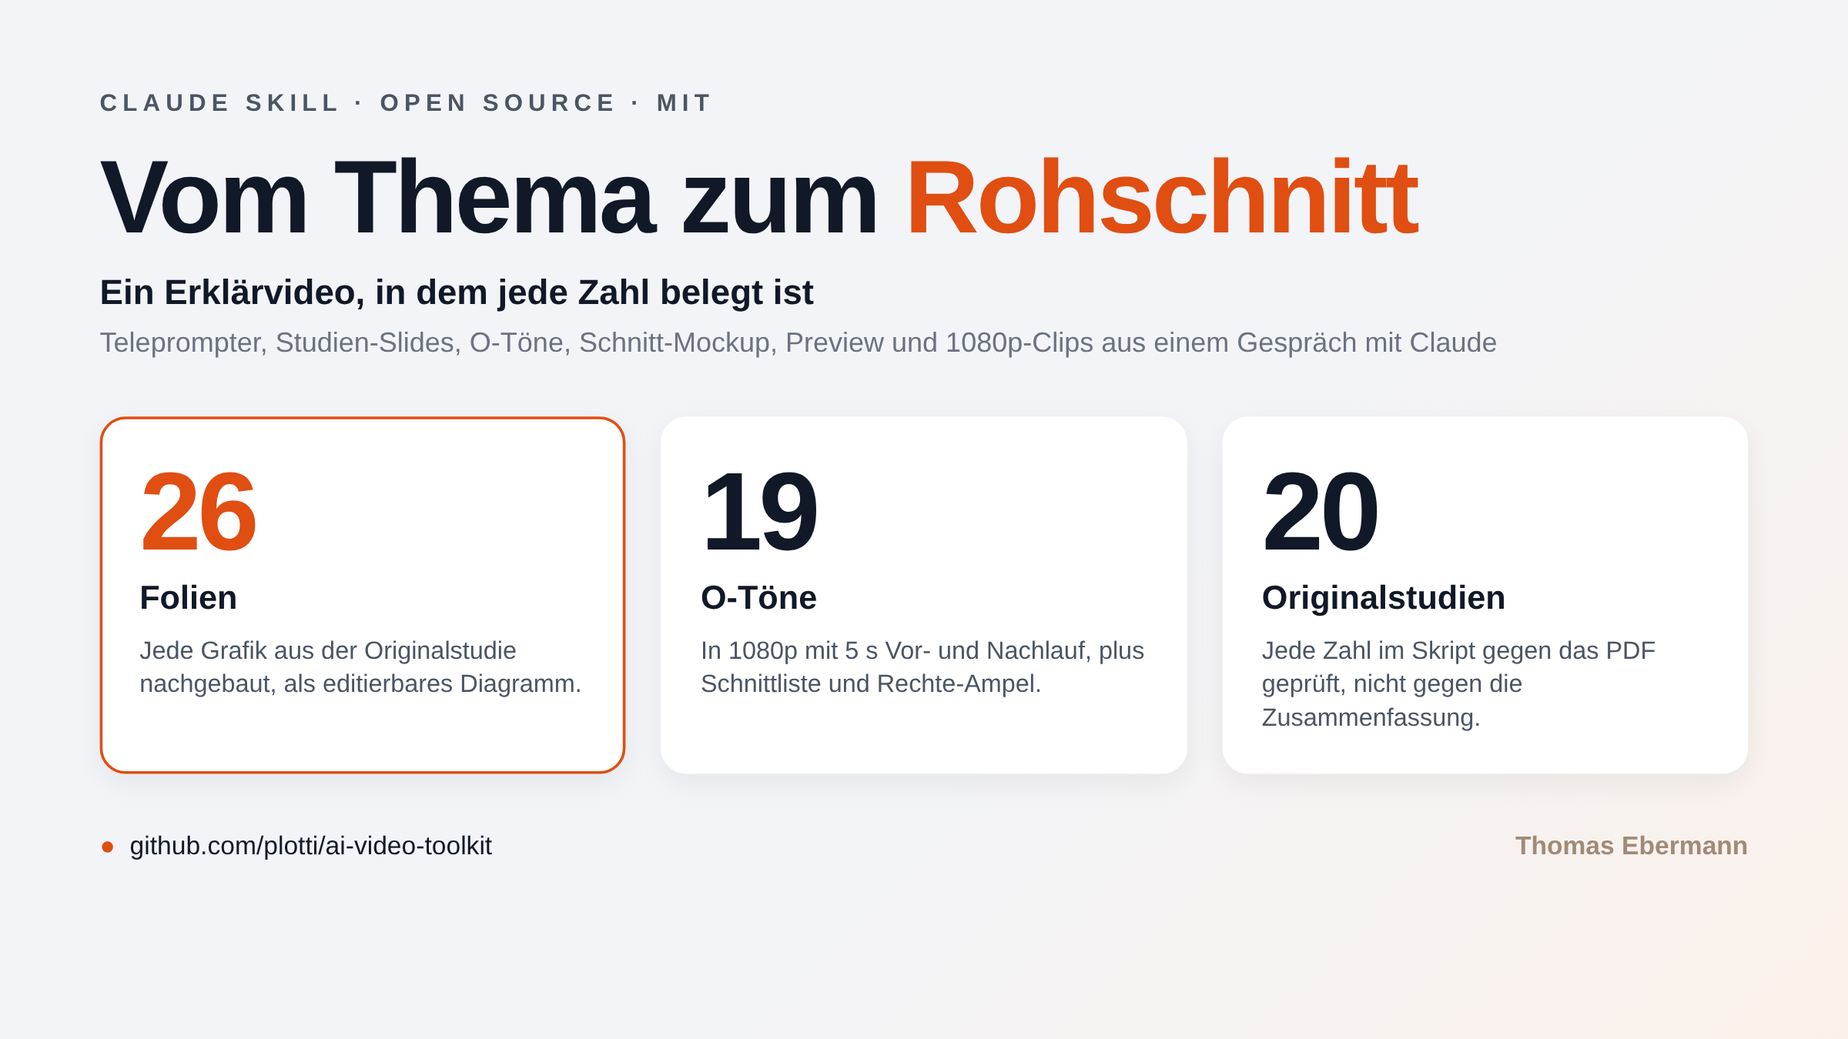
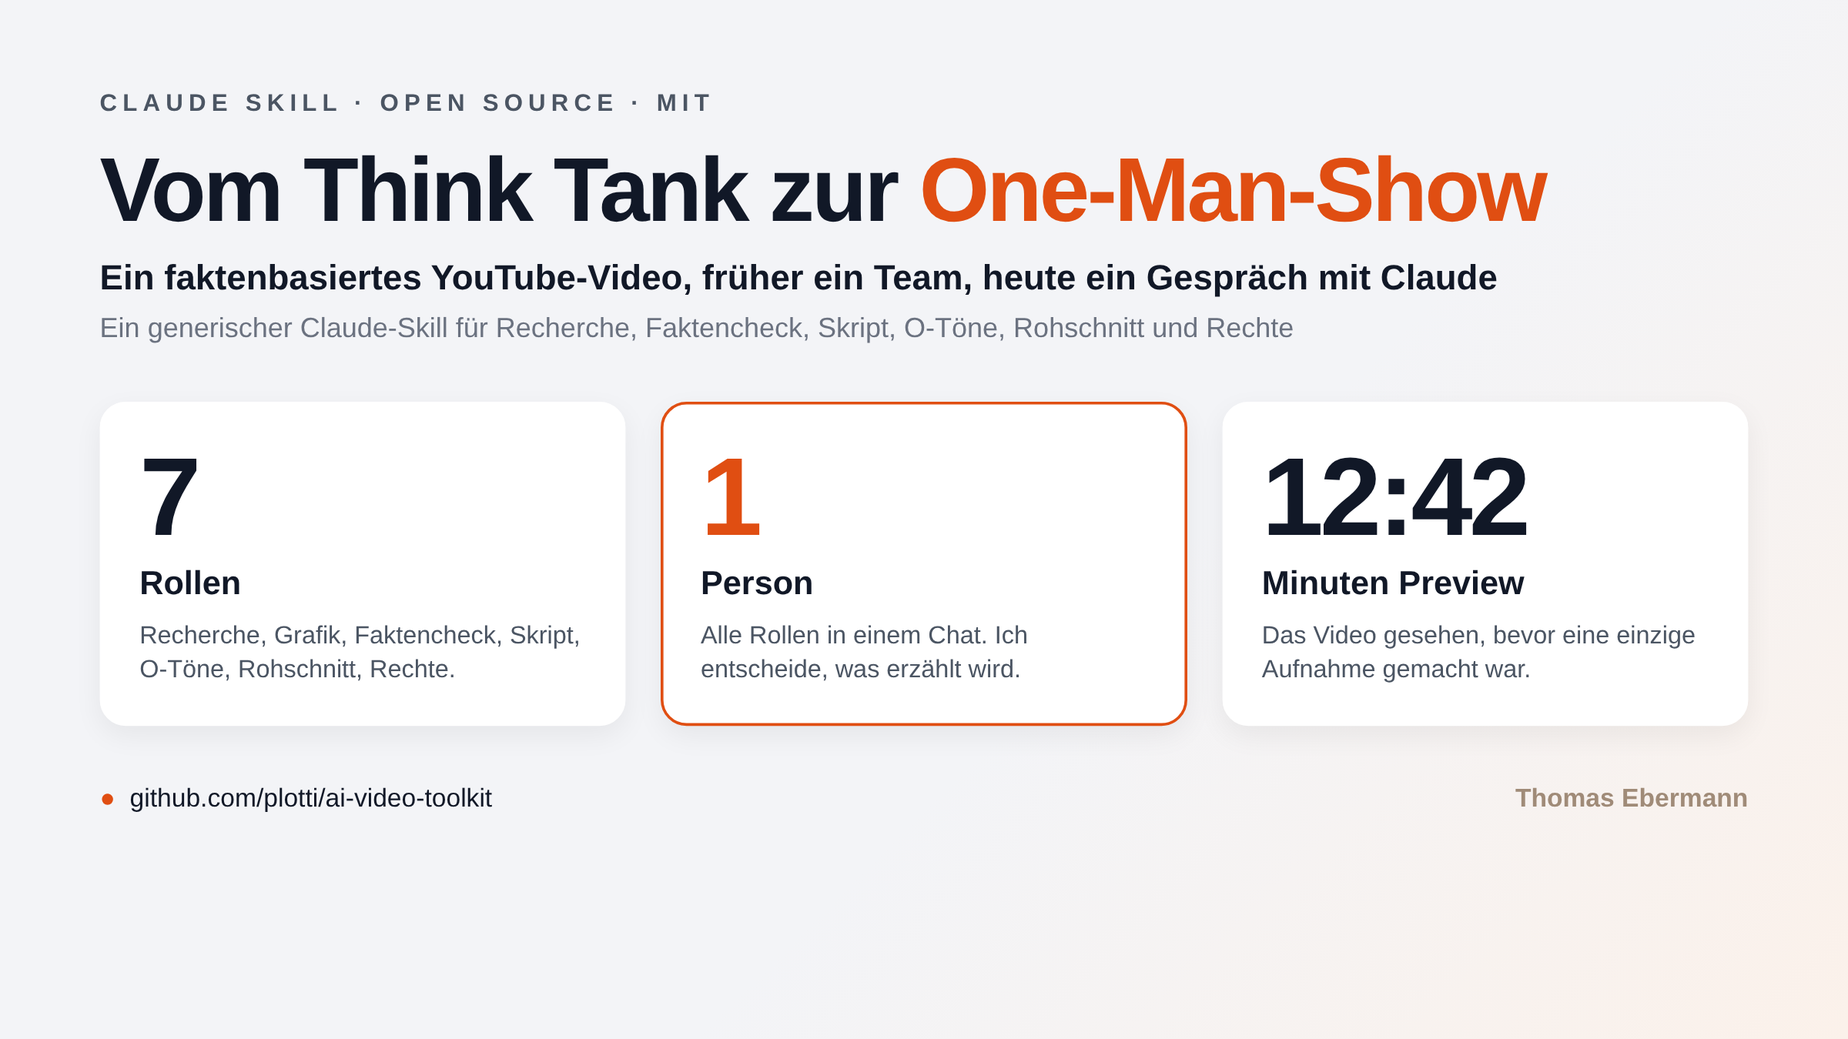
Blogpost neu: Vom Think Tank zur One-Man-Show
Claude-Session: https://claude.ai/code/session_01BQaxgV9PZvSLZFZskjUJy3

diff --git a/src/content/blog/2026-11-17-studien-video-workflow-claude-skill.md b/src/content/blog/2026-11-17-studien-video-workflow-claude-skill.md
@@ -1,103 +1,78 @@
 ---
-title: "Vom Thema zum Rohschnitt: ein Claude-Skill für Erklärvideos, in denen jede Zahl belegt ist"
-description: "Für ein YouTube-Video über die Krise der liberalen Demokratie habe ich Claude Recherche, Faktencheck, Teleprompter, Studien-Slides, O-Töne, Schnitt-Mockup, Preview und 1080p-Clips machen lassen. Daraus ist ein Open-Source-Skill geworden, den man in Claude Code oder in der Claude-App installiert und dann einfach benutzt, indem man mit Claude redet."
+title: "Vom Think Tank zur One-Man-Show: wie ich mit einem Claude-Skill faktenbasierte YouTube-Videos mache"
+description: "Für ein recherchiertes Erklärvideo hätte man früher ein ganzes Team gebraucht: Leute, die Studien lesen und verdichten, Grafiker, Faktenchecker, eine Autorin fürs Skript, jemanden für die O-Töne, einen Cutter für den Rohschnitt. Heute mache ich das allein, mit einem generischen Claude-Skill, den ich als Open Source veröffentlicht habe. Ein Erfahrungsbericht darüber, wie stark sich Arbeit gerade verändert."
 pubDate: 2026-11-17T21:30:00+01:00
-readTime: 9
+readTime: 8
 category: "KI Tools"
-tags: ["Claude","Claude Code","Skills","Video","Faktencheck","Piper TTS","yt-dlp"]
+tags: ["Claude","Claude Code","Skills","Video","Faktencheck","Zukunft der Arbeit"]
 cover: "../../assets/blog/studien-video-cover.png"
 ---
 
-**Stand:** November 2026 · **Autor:** Thomas Ebermann · **Lesedauer:** ca. 9 Minuten
+**Stand:** November 2026 · **Autor:** Thomas Ebermann · **Lesedauer:** ca. 8 Minuten
 
-Ich mache nebenbei Videos für den YouTube-Kanal Losdemokratie. Das Format ist simpel: Ich stehe rechts im Bild und rede, links läuft eine Folie mit der Studie, die meine Aussage belegt. Dazwischen O-Töne von Politikerinnen, Forschern oder Bürgern. Der Anspruch ist genauso simpel: **Jede Behauptung im Video muss durch eine Studie belegt sein.** Keine gefühlten Wahrheiten, keine Zahl aus einem Zeitungsartikel, der eine Pressemitteilung zusammenfasst, die eine Studie zusammenfasst.
+Ich mache nebenbei YouTube-Videos zu Politik und Demokratie. Das Format: Ich rede, neben mir läuft eine Folie mit der Studie, die meine Aussage belegt, dazwischen kommen O-Töne von Politikerinnen, Forschern oder Bürgern. Jede Behauptung soll belegt sein. Keine gefühlten Wahrheiten.
 
-Das Problem an diesem Anspruch ist der Aufwand. Für ein Video von gut zwölf Minuten kommen schnell zwanzig Studien, zwei Dutzend Folien und zwanzig O-Töne zusammen. Jede Zahl muss ich im Original finden, jede Grafik nachbauen, jeden O-Ton auf die Zehntelsekunde schneiden. Und bevor ich überhaupt vor die Kamera stehe, will ich wissen, ob das Ganze als Video funktioniert.
+Mein letztes Video, «Krise der liberalen Demokratie?», hat gut zwölf Minuten. Darin stecken 20 Studien, 26 Folien und 19 O-Töne. Gemacht habe ich das allein, zusammen mit Claude. Und als ich danach zurückgeschaut habe, ist mir erst klar geworden, wie viele Leute man für so etwas vor ein paar Jahren gebraucht hätte.
 
-Beim letzten Video, «Krise der liberalen Demokratie?», habe ich das komplett mit Claude gemacht. Daraus ist ein Skill geworden, den ich jetzt [auf GitHub veröffentlicht](https://github.com/plotti/ai-video-toolkit) habe.
+## Früher: ein ganzer Think Tank
 
-## 1. Was am Ende rauskommt
+Spielen wir einmal durch, wie so ein Video klassisch entstanden wäre.
 
-Ich gebe Claude das Thema, meine Thesen und eine lose Ideensammlung mit Links. Am Ende habe ich:
+**Die Recherche.** Am Anfang braucht es Leute, die das Thema kennen. Sie suchen die relevanten Studien zusammen, lesen die Papers, verdichten sie auf ein paar Kernaussagen und bereiten einzelne Grafiken aus den Papers neu auf, damit man sie überhaupt zeigen kann. Das ist schon eine ganze Mannschaft, im Grunde ein kleiner Think Tank.
 
-- einen **Teleprompter** als Dokument, in dem vor jedem belegten Satz steht, welche Folie eingeblendet wird, dazu eine Quellentabelle mit exakter Fundstelle (Seite, Tabelle, Abbildung),
-- ein **Foliendeck** mit 26 Folien, die Grafiken aus den Studien als echte, editierbare Diagramme nachgebaut,
-- einen Ordner mit den **20 Originalstudien** als PDF, nummeriert wie die Folien,
-- **19 O-Töne**, die im Skript an der richtigen Stelle stehen,
-- einen klickbaren **Schnitt-Mockup** im Browser, in dem eine Computerstimme meinen Text vorliest,
-- ein **Preview-Video** von zwölfeinhalb Minuten, bevor ich eine einzige Aufnahme gemacht habe,
-- alle O-Töne als **1080p-Clips mit fünf Sekunden Vor- und Nachlauf** und eine Schnittliste für das Schnittprogramm,
-- eine **Rechte-Ampel** pro O-Ton: Darf ich das zeigen?
+**Die Idee fürs Video.** Dann kommt jemand und sagt: Mit diesen Beobachtungen will ich ein Video machen. Das ist eine andere Person mit einem anderen Blick. Sie denkt nicht in Studien, sondern in einer Geschichte.
 
-![Ein Ausschnitt aus dem Foliendeck: Edelman Trust Barometer, Iyengar et al. zur Polarisierung, Healy & Malhotra zur Katastrophenvorsorge](../../assets/blog/studien-video-slides.jpg)
+**Der Faktencheck.** Die nächste Person muss das alles noch einmal prüfen. Stimmt die Zahl wirklich so im Paper, oder nur in der Pressemitteilung? Gilt der Durchschnitt über zwanzig Länder auch für Deutschland? Ist «sinkendes Vertrauen» eine Zeitreihe oder ein Eindruck? Das dauert wieder ewig, und es ist undankbare Arbeit, weil man am Ende vor allem Dinge streicht.
 
-## 2. Die wichtigste Regel: Nichts aus der Ideensammlung ist geprüft
+**Das Skript.** Dann schreibt jemand den Teleprompter-Text. Was will ich erzählen, in welcher Reihenfolge, mit welchem Bogen? Und vor allem: Wie verheirate ich das Material aus der Recherche mit der Story, die ich erzählen will? Welche Folie kommt bei welchem Satz?
 
-Der Teil, der mir am meisten bringt, ist nicht die Technik, sondern der Faktencheck. Im Skill steht eine Regel ganz oben: Jede Zahl, jedes Zitat und jede Studienaussage aus meinen Notizen gilt als ungeprüft, bis sie wörtlich im Original gefunden ist. Claude lädt dafür das PDF der Studie herunter, wandelt es in Text um und sucht die exakte Zahl.
+**Die O-Töne.** Die nächste Person sucht Soundbytes. Wo gibt es einen Politiker, der genau das sagt? Einen Forscher, der es erklärt? Einen Bürger, der es erlebt? Das heisst stundenlang Videos schauen, Zeitstempel notieren, Ausschnitte schneiden.
 
-Das klingt pedantisch. Beim ersten Testlauf hat Claude aber in **9 von rund 15 Aussagen** Abweichungen gefunden. Nicht, weil meine Notizen erfunden waren, sondern weil Zahlen auf dem Weg vom Paper bis in meine Sammlung kleine Veränderungen durchmachen. Ein paar Beispiele, die ich so nie selbst gefunden hätte:
+**Review und Rohschnitt.** Dann muss das Ganze zusammengesetzt werden, damit man sieht, ob es funktioniert. Jemand baut einen Rohschnitt oder zumindest ein Storyboard. Man schaut es an, merkt, dass Kapitel drei zu lang ist und zwei O-Töne hintereinander nicht tragen, und iteriert. Dann rendert man es nochmals raus, schaut, wie lang das Video wird, und erst dann geht man vor die Kamera.
 
-- **Presseseite und Bericht sagen etwas anderes.** Bei der irischen Bürgerversammlung steht auf der Presseseite 98 Prozent, im Final Report 97 Prozent (73 von 75 Anwesenden). Es gilt der Bericht.
-- **Der Durchschnitt stimmt, aber nicht für Deutschland.** Eine Studie findet über viele Länder einen negativen Effekt. Für Deutschland ist er positiv. Wenn ich das Video für ein deutsches Publikum mache, gehört das offen auf die Folie.
-- **Die Richtung ist falsch.** «Das Vertrauen sinkt» braucht eine Zeitreihe. Beim Edelman Trust Barometer ist der Wert für Deutschland 2026 gestiegen. Gewachsen ist nur der Abstand zwischen hohen und tiefen Einkommen, und genau das zeigt jetzt die Folie.
-- **Die Quelle existiert so nicht.** Eine Zahl, die einer Stiftung zugeschrieben wurde, war im Original nicht auffindbar. Claude hat sie durch eine Studie ersetzt, die das Gleiche belegt und die man nachlesen kann.
+**Rechte und Schnitt.** Und zum Schluss klärt jemand, ob man die Ausschnitte überhaupt zeigen darf, und bereitet das Material für den Cutter auf.
 
-Jede dieser Abweichungen landet in einer Tabelle «Korrekturen gegenüber der Ideensammlung»: was ich hatte, was im Original steht, was jetzt im Skript steht. So sehe ich auf einen Blick, wo mein Bauchgefühl danebenlag.
+Rechercheure, Grafikerin, Faktenchecker, Autorin, O-Ton-Rechercheur, Cutter, jemand für die Rechte. Sechs, sieben Rollen, Wochen an Arbeit. Für ein YouTube-Video.
 
-## 3. Das Skript ist die Quelle der Wahrheit
+## Heute: eine Person und ein Gespräch
 
-Der Teleprompter ist ein normales Dokument, in dem ich auch selbst schreibe. Damit Claude daraus später einen Schnitt bauen kann, hat er eine ganz einfache Syntax:
+Aus diesem ganzen Kram ist eine One-Man-Show geworden. Alle diese Rollen gibt es noch, aber sie sind in einem Gespräch mit Claude zusammengefallen. Ich gebe das Thema, meine Thesen und eine lose Ideensammlung mit Links, und dann arbeiten wir das zusammen durch.
 
-```
-## 3. Spaltung
-▶ EINBLENDEN 9 · Iyengar et al. 2012
-1960 wären in den USA nur 4 Prozent der Demokraten und 5 Prozent der Republikaner unglücklich gewesen, wenn ihr Kind jemanden von der Gegenseite heiratet. 2010 waren es 33 und 49 Prozent.
-■ O-TON Mehr Demokratie · 5:21,8–5:33,3 · «… redet kaum jemand mit jemand anderem, der nicht seiner Meinung ist.»
-```
+**Recherche und Faktencheck in einem.** Claude lädt jede Studie im Original herunter und sucht die Zahl im PDF, nicht in der Zusammenfassung. Schon beim ersten Testlauf haben in 9 von rund 15 Aussagen aus meinen Notizen Details nicht gestimmt. Eine Zahl stand auf der Presseseite anders als im offiziellen Bericht. Ein Effekt, der im Länderdurchschnitt negativ ist, war für Deutschland positiv. Ein «sinkendes» Vertrauen war im neusten Bericht gestiegen. Alles landet in einer Korrekturtabelle, und das Skript sagt, was im Original steht.
 
-Kapitel, Folienwechsel, Sprechtext, O-Ton mit Zeitstempel im Quellvideo. Das ist alles. Den Rest der Zusammenarbeit führe ich im Chat, und zwar so, wie ich mit einem Cutter reden würde:
+**Grafiken neu aufbereitet.** Für jede Kernaussage baut Claude eine Folie mit der Grafik aus der Studie nach, als echtes, editierbares Diagramm in meinem Design, mit Fundstelle in den Notizen.
 
-- «OT 11 raus, OT 8 auch raus.»
-- «Schieb den O-Ton aus dem Film zu Problem 1.»
-- «Nimm die 52 Prozent bei Grossbritannien raus, das ist zu polemisch.»
-- «Ich will Zwischenüberschriften für die einzelnen Probleme.»
-- «Geh den Teleprompter durch und sag mir, welches die schwächste Stelle ist.»
+![Drei Folien aus dem Deck: Edelman Trust Barometer, Iyengar et al. zur Polarisierung, Healy & Malhotra zur Katastrophenvorsorge](../../assets/blog/studien-video-slides.jpg)
 
-Gerade die letzte Frage stelle ich inzwischen bei jedem Video. Claude sucht dann Brüche in der Logik, Stellen, an denen ein Beispiel für ein deutsches Publikum nicht trägt, oder einen O-Ton, der dem Sprechtext davor eigentlich widerspricht, und schlägt konkret eine neue Formulierung vor.
+**Skript und Material verheiratet.** Der Teleprompter ist ein Dokument, in dem bei jedem Satz steht, welche Folie gerade läuft und wo ein O-Ton kommt. Ich lese, streiche, schreibe um und sage im Chat Dinge wie «Nimm die 52 Prozent bei Grossbritannien raus, das ist zu polemisch» oder «Ich will Zwischenüberschriften für die einzelnen Probleme». Und regelmässig: «Was ist die schwächste Stelle im Skript?»
 
-## 4. O-Töne finden und schneiden
+**O-Töne.** Claude sucht pro Kapitel passende Ausschnitte, schlägt mir eine Tabelle mit Sprecher, Zitat und Zeitstempel vor, und ich wähle aus. Geschnitten wird auf die Zehntelsekunde.
 
-Für die O-Töne nutze ich ein eigenes Tool, das ich vor einiger Zeit gebaut habe: Es hat die Transkripte vieler YouTube-Videos zu Demokratie und Politik und eine semantische Suche darüber. Claude stellt pro Folie zwei, drei Suchanfragen, schaut sich das Transkript rund um die Treffer an und schlägt mir eine Tabelle mit Sprecher, Zitat und Link mit Zeitmarke vor. Ich suche aus.
+**Review vor dem Dreh.** Aus dem Skript entsteht ein klickbarer Schnitt-Mockup: links die Folie, rechts ein Platzhalter für mich, eine Computerstimme liest meinen Text, die O-Töne laufen im Vollbild. Daraus wird ein Preview-Video. So habe ich mein Video gesehen, bevor ich es aufgenommen habe, und wusste, dass es 12 Minuten 42 lang wird.
 
-Der Skill ist aber bewusst **nicht an dieses Tool gebunden**. Ohne eigenes Archiv sucht Claude direkt auf YouTube und schneidet über die automatischen Untertitel, die Zeitmarken für jedes einzelne Wort haben. Man kann auch eigene Aufnahmen oder Material aus einer Mediathek als Datei angeben.
+![Der Schnitt-Mockup: Folie links, Sprecher rechts, darunter Zeitleiste und Skript](../../assets/blog/studien-video-mockup.png)
 
-Ein praktisches Detail: YouTube blockiert Downloads aus Rechenzentren. Die O-Töne hat Claude deshalb nicht in der Cloud geholt, sondern auf meinem Mac, über die Verbindung der Claude-Desktop-App. Bei einem O-Ton aus einem Dokumentarfilm, der auf der Film-Website als Vimeo-Stream eingebettet ist, war die signierte Video-URL nach ein paar Stunden abgelaufen. Claude hat sie mit einem Befehl neu geholt, und der Download lief weiter.
+**Iterieren.** Wenn mir beim Durchklicken etwas nicht gefällt, sage ich es, und ein paar Minuten später ist der neue Rohschnitt da. Diese Schleife, die früher Tage zwischen Autorin und Cutter gedauert hat, dauert jetzt so lange, wie ich brauche, um den Satz zu tippen.
 
-## 5. Der Schnitt-Mockup: das Video sehen, bevor es gedreht ist
+**Rechte und Schnitt-Material.** Am Ende bekomme ich alle O-Töne als 1080p-Clips mit Vor- und Nachlauf für das Schnittprogramm und eine Rechte-Ampel pro Ausschnitt nach Schweizer und deutschem Zitatrecht. Keine Rechtsberatung, aber eine Liste, mit der ich weiss, wen ich anfragen muss.
 
-Das ist der Teil, der mich am meisten überrascht hat, wie nützlich er ist. Claude liest jeden Satz aus dem Teleprompter mit [Piper](https://github.com/rhasspy/piper) vor, einer freien Text-to-Speech-Engine, die lokal läuft. Daraus entsteht eine Webseite: links die Folie, rechts ein Platzhalter für mich, unten die Zeitleiste und das Skript. Bei einem O-Ton läuft der Clip im Vollbild mit Originalton und Bauchbinde.
+![Ein Bild aus dem Preview-Video, das vor dem Dreh entstanden ist](../../assets/blog/studien-video-preview.jpg)
 
-![Der Schnitt-Mockup: Folie links, Sprecher rechts, darunter Zeitleiste und Drehfassung](../../assets/blog/studien-video-mockup.png)
+## Was sich dabei wirklich verändert
 
-Man merkt dabei Dinge, die man auf Papier nicht merkt. Dass eine Folie zwei Minuten stehen bleibt, während ich rede. Dass zwei O-Töne direkt hintereinander zu viel sind. Dass ein Kapitel viel länger ist als die anderen. Ändere ich etwas im Skript, wird nur der geänderte Satz neu vertont, und der Mockup ist in Sekunden wieder aktuell.
+Der offensichtliche Teil ist die Zeit. Spannender finde ich aber, was mit den Rollen passiert.
 
-Wer den Mockup nicht im Browser anschauen will, bekommt das Ganze auch als MP4. Für das Demokratie-Video waren das 12 Minuten 42 Sekunden.
+**Die Übergaben fallen weg.** In einem Team geht bei jeder Übergabe etwas verloren. Die Rechercheurin weiss, dass die Zahl nur für Leute über 40 gilt, aber im Skript steht es nicht mehr. Wenn Recherche, Faktencheck und Skript im selben Gespräch passieren, wandert dieses Wissen mit.
 
-![Ein Bild aus dem Preview-Video](../../assets/blog/studien-video-preview.jpg)
+**Die mühsamen Rollen werden plötzlich gemacht.** Ehrlich gesagt hätte ich als Einzelperson nie jede Zahl im Original-PDF nachgeschlagen. Und ich hätte nie einen Rohschnitt gebaut, bevor ich drehe. Das waren genau die Rollen, die man sich in einem kleinen Projekt spart. Jetzt sind sie billig genug, dass ich sie immer mache. Das Video wird dadurch nicht nur schneller fertig, sondern besser.
 
-## 6. Schnitt-Assets und Rechte-Ampel
+**Meine Rolle ist die des Chefredakteurs.** Ich entscheide, welche These ich vertreten will, welche Zahl zu polemisch ist, welcher O-Ton bleibt und wo die Geschichte hängt. Das Handwerk dazwischen macht Claude. Die Verantwortung für das, was am Ende im Video gesagt wird, bleibt bei mir.
 
-Wenn das Skript steht, sage ich: «Render mir alle Videos, die im Video benutzt werden, in einen Ordner, 1080p und vorne und hinten fünf Sekunden mehr.» Dann kommt ein Ordner mit `OT01_….mp4` bis `OT19_….mp4` und eine `Schnittliste.csv`, in der für jeden Clip steht, wo der O-Ton in der Datei beginnt und endet und woher er stammt. Das ziehe ich ins Schnittprogramm, fertig.
+## Der Skill: generisch und für jedes Thema
 
-Die Frage, die danach immer kommt: Darf ich das überhaupt zeigen? In der Schweiz und in Deutschland gibt es ein Zitatrecht (Art. 25 URG, § 51 UrhG). Es deckt fremdes Material, wenn ich mich im Video damit auseinandersetze, es nicht länger ist als nötig und die Quelle genannt wird. Claude ordnet dafür jeden O-Ton ein: Wem gehört er (Sender, Parlament, Partei, Filmproduktion)? Wird er zitiert und eingeordnet, oder läuft er nur als Bebilderung unter meinem Text?
+Den ganzen Ablauf habe ich in einen **Claude-Skill** gepackt und [auf GitHub veröffentlicht](https://github.com/plotti/ai-video-toolkit). Er ist nicht an mein Thema und nicht an meine Werkzeuge gebunden. Er funktioniert für jedes YouTube-Video, das auf Belegen aufbaut, ob es um Klimapolitik, Ernährung oder Wirtschaftsgeschichte geht, und in jeder Sprache. Die O-Töne kommen standardmässig von YouTube; wer ein eigenes Video-Archiv hat, kann es anbinden.
 
-Für das Demokratie-Video kam heraus: **13 gelb, 6 rot, keiner grün.** Gelb heisst: Zitatrecht trägt wahrscheinlich, wenn ich mich wirklich damit befasse. Rot waren vier Ausschnitte aus einem Dokumentarfilm, für die ich die Produktion um Erlaubnis fragen sollte, und zwei Schnittbilder von Politikern im Hochwassergebiet, die ich nur als Bebilderung verwende. Das ist keine Rechtsberatung, aber es ist eine Liste, mit der ich konkret weiss, wen ich anschreiben muss.
-
-## 7. Warum ein Skill und kein Tool
-
-Meine erste Version auf GitHub war eine Sammlung von Python-Skripten mit einer langen Anleitung: Projektordner anlegen, Stimme herunterladen, diesen Befehl ausführen, dann jenen. Technisch korrekt, aber am Thema vorbei. Ich habe keinen einzigen dieser Befehle selbst eingetippt. Ich habe mit Claude geredet.
-
-Darum ist das Ganze jetzt als **Claude-Skill** verpackt. Ein Skill ist im Kern ein Ordner mit einer Anleitung, die Claude liest, wenn sie zur Aufgabe passt, plus den Skripten, die Claude dafür braucht. Die Anleitung beschreibt den ganzen Ablauf, inklusive der Faktencheck-Regeln und der Dinge, die ich unterwegs gelernt habe. Die Skripte für Stimme, Mockup, Preview, Clips und Rechte liegen daneben, und Claude ruft sie selbst auf.
+Ein Skill ist im Kern eine Anleitung, die Claude liest, wenn sie zur Aufgabe passt, plus die Skripte, die Claude dafür braucht: Faktencheck-Regeln, Ablauf, Text-to-Speech, Mockup, Preview, Clip-Export und Rechte-Ampel. Bedient wird er nicht über Befehle, sondern indem man mit Claude redet.
 
 **In Claude Code:**
 
@@ -106,15 +81,14 @@ Darum ist das Ganze jetzt als **Claude-Skill** verpackt. Ein Skill ist im Kern e
 /plugin install ai-video-toolkit@ai-video-toolkit
 ```
 
-**In der Claude-App:** die ZIP-Datei aus dem Ordner `dist/` im [Repository](https://github.com/plotti/ai-video-toolkit) herunterladen und unter *Customize → Skills* hochladen. Dafür muss in den Einstellungen die Code-Ausführung aktiviert sein.
+**In der Claude-App:** die ZIP-Datei aus dem Ordner `dist/` im [Repository](https://github.com/plotti/ai-video-toolkit) unter *Customize → Skills* hochladen. Dafür muss in den Einstellungen die Code-Ausführung aktiviert sein.
 
-Danach reicht ein Satz wie: «Mach mir ein Video von acht Minuten darüber, warum das Vertrauen in Parlamente sinkt. Meine Notizen und die Studien hängen an.» Der Skill ist auf Deutsch geschrieben, weil mein Kanal deutsch ist, funktioniert aber für Videos in jeder Sprache. Ein kleines Demo-Projekt und das komplette Demokratie-Projekt mit allen O-Ton-Zeitmarken und Rechte-Einträgen liegen als Beispiele dabei, ohne das Videomaterial selbst.
+Danach reicht ein Satz wie: «Mach mir ein Video von acht Minuten darüber, warum das Vertrauen in Parlamente sinkt. Meine Notizen hängen an.» Das komplette Demokratie-Projekt liegt als Beispiel dabei.
 
 ## Was nehme ich mit?
 
-1. **Der Faktencheck ist der eigentliche Gewinn.** Folien bauen und Clips schneiden spart Zeit. Dass jede Zahl im PDF gegengeprüft wird, macht das Video besser. Ohne diese Regel hätte ich mehrere Zahlen gesagt, die so nicht stimmen.
-2. **Den Ablauf sehen ändert die Dramaturgie.** Beim Durchklicken im Mockup habe ich O-Töne geparkt, umgestellt und neue Folien eingefügt, was mir auf Papier nicht aufgefallen wäre.
-3. **Das Skript muss die einzige Quelle bleiben.** Alles, also Mockup, Preview, Schnittliste und Rechte-Ampel, wird aus dem Teleprompter erzeugt. Sobald man an zwei Stellen ändert, laufen sie auseinander.
-4. **Wer das Werkzeug benutzt, ist Claude, nicht ich.** Deshalb gehört die Anleitung in den Skill und nicht in ein README, das Befehle erklärt.
+1. **Aus einem Team wird ein Gespräch.** Recherche, Faktencheck, Grafik, Skript, O-Töne, Rohschnitt und Rechte waren früher sechs, sieben Rollen. Heute sind es Abschnitte in einem Chat.
+2. **Billig heisst nicht schlechter.** Weil Faktencheck und Rohschnitt fast nichts mehr kosten, mache ich sie immer. Das hätte ich allein früher nie gemacht.
+3. **Die Arbeit verschiebt sich zum Urteil.** Was bleibt, ist die Frage, was man erzählen will und was man verantworten kann. Das ist der Teil, den ich nicht abgeben will.
 
 Der Code steht unter MIT-Lizenz auf [GitHub](https://github.com/plotti/ai-video-toolkit). Ich freue mich auf eure Kommentare, und vor allem auf Erfahrungen, falls jemand den Skill für ein ganz anderes Thema ausprobiert.
